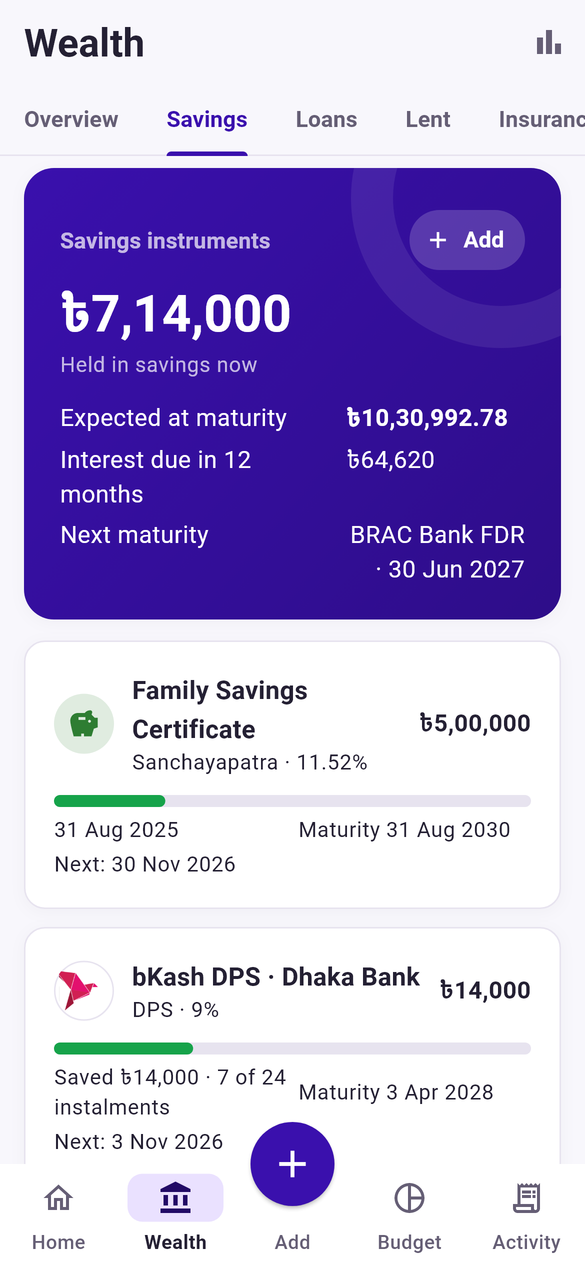
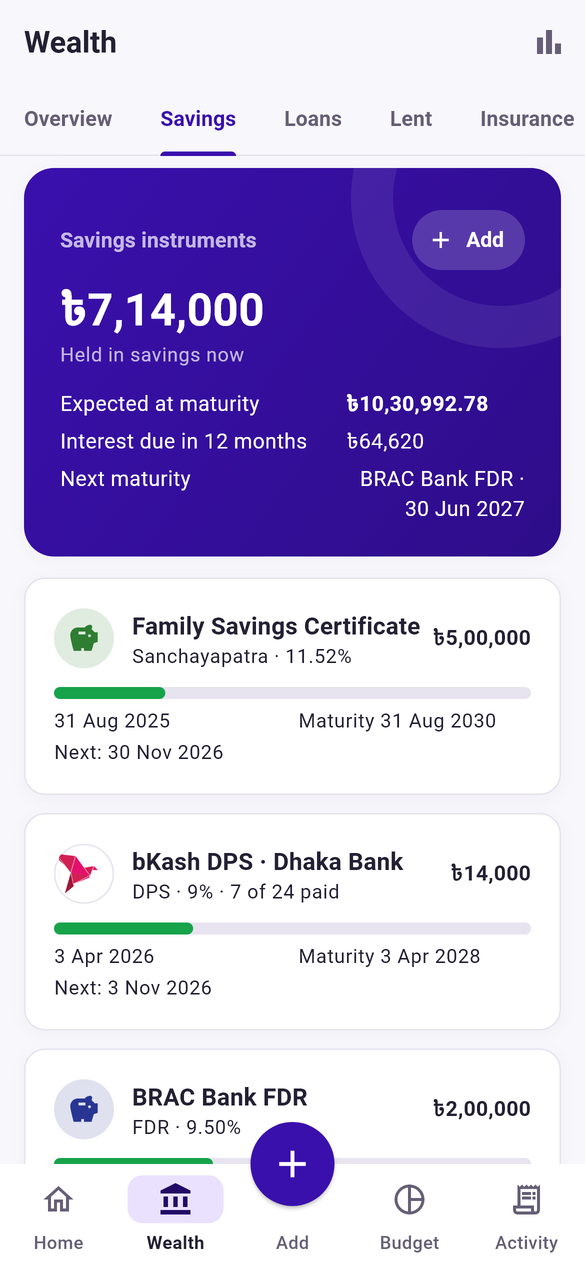
Release 0.3.1: update.json, README and screenshots

diff --git a/README.md b/README.md
@@ -33,8 +33,8 @@
 <table align="center">
   <tr>
     <td align="center">
-      <a href="https://github.com/abdullah-al-faahim/taka-releases/releases/download/v0.3.0/Taka-0.3.0.apk"><img src="screenshots/download-android.svg" width="280" alt="Download for Android"></a><br>
-      <sub>v0.3.0 · APK, 81 MB · Android 8.0 or newer</sub>
+      <a href="https://github.com/abdullah-al-faahim/taka-releases/releases/download/v0.3.1/Taka-0.3.1.apk"><img src="screenshots/download-android.svg" width="280" alt="Download for Android"></a><br>
+      <sub>v0.3.1 · APK, 81 MB · Android 8.0 or newer</sub>
     </td>
   </tr>
 </table>
@@ -107,7 +107,6 @@ insurance premium coming up. It shows where you stand today and what is coming n
 
 **Deposit safety**
 - A warning when an FDR or DPS would take you above the Tk 2 lakh protected per person per bank, or the bank was merged
-- "Your money's safety" on the Wealth tab: at each bank and finance company, how much you hold, how much is protected and what is above the limit
 - Banks and rates update online within a day, without an app update
 
 **Loans and EMIs**
@@ -139,7 +138,8 @@ insurance premium coming up. It shows where you stand today and what is coming n
 **Your data, safely**
 - Encrypted on the phone; app lock with PIN or fingerprint; hides amounts in recent apps
 - Automatic encrypted backup to Google Drive or a folder, every day, week or month; restore everything on a new phone in a minute
-- A modern, animated design in light and dark; in-app updates with a red dot when one is ready
+- Your photo and name on Home; a clean, compact design in light and dark
+- In-app updates for the app, banks and rates together, with a red dot when one is ready
 
 ## Screenshots
 
@@ -171,7 +171,6 @@ insurance premium coming up. It shows where you stand today and what is coming n
   </tr>
   <tr>
     <td align="center"><img src="screenshots/17_insurers.png" width="250"><br><sub>All licensed insurers to pick from</sub></td>
-    <td align="center"><img src="screenshots/18_wealth_safety.png" width="250"><br><sub>How much of your money is protected</sub></td>
   </tr>
 </table>
 
